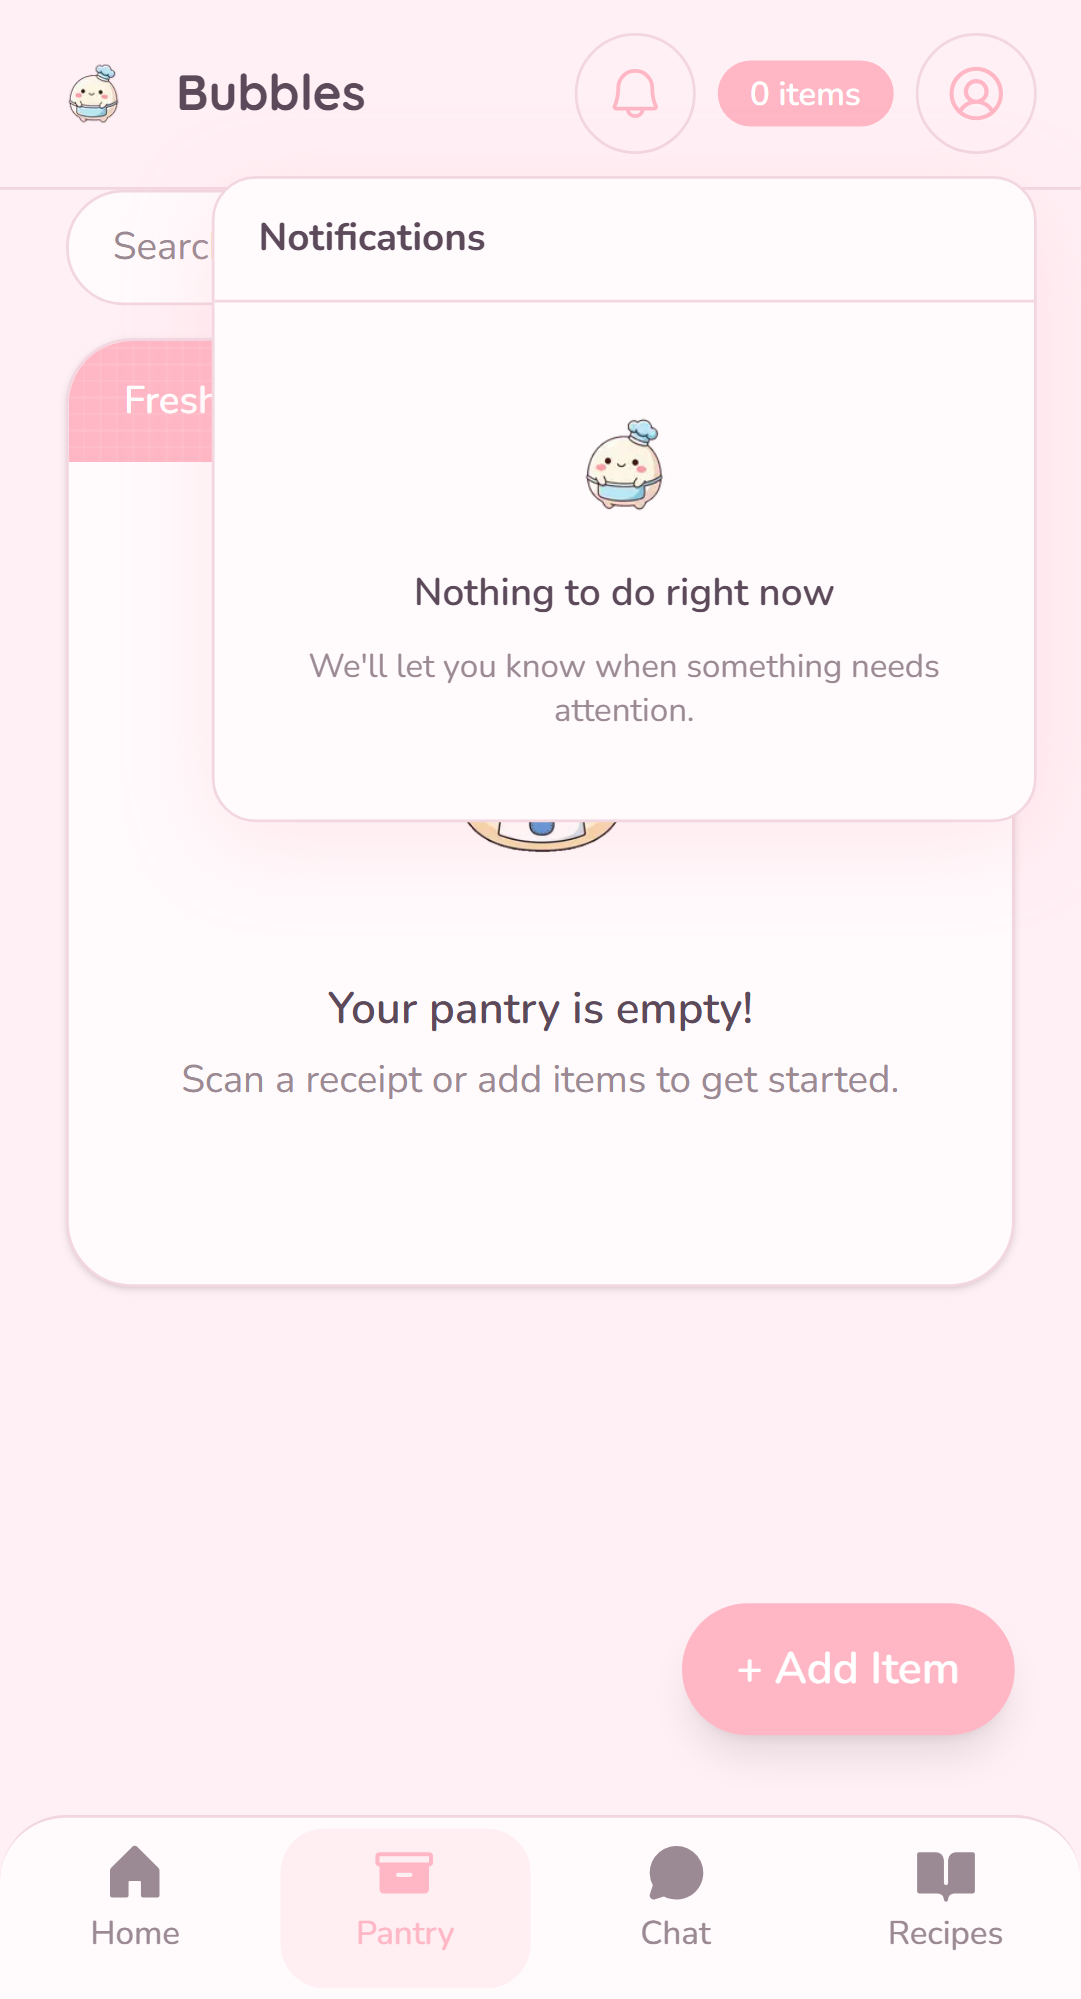
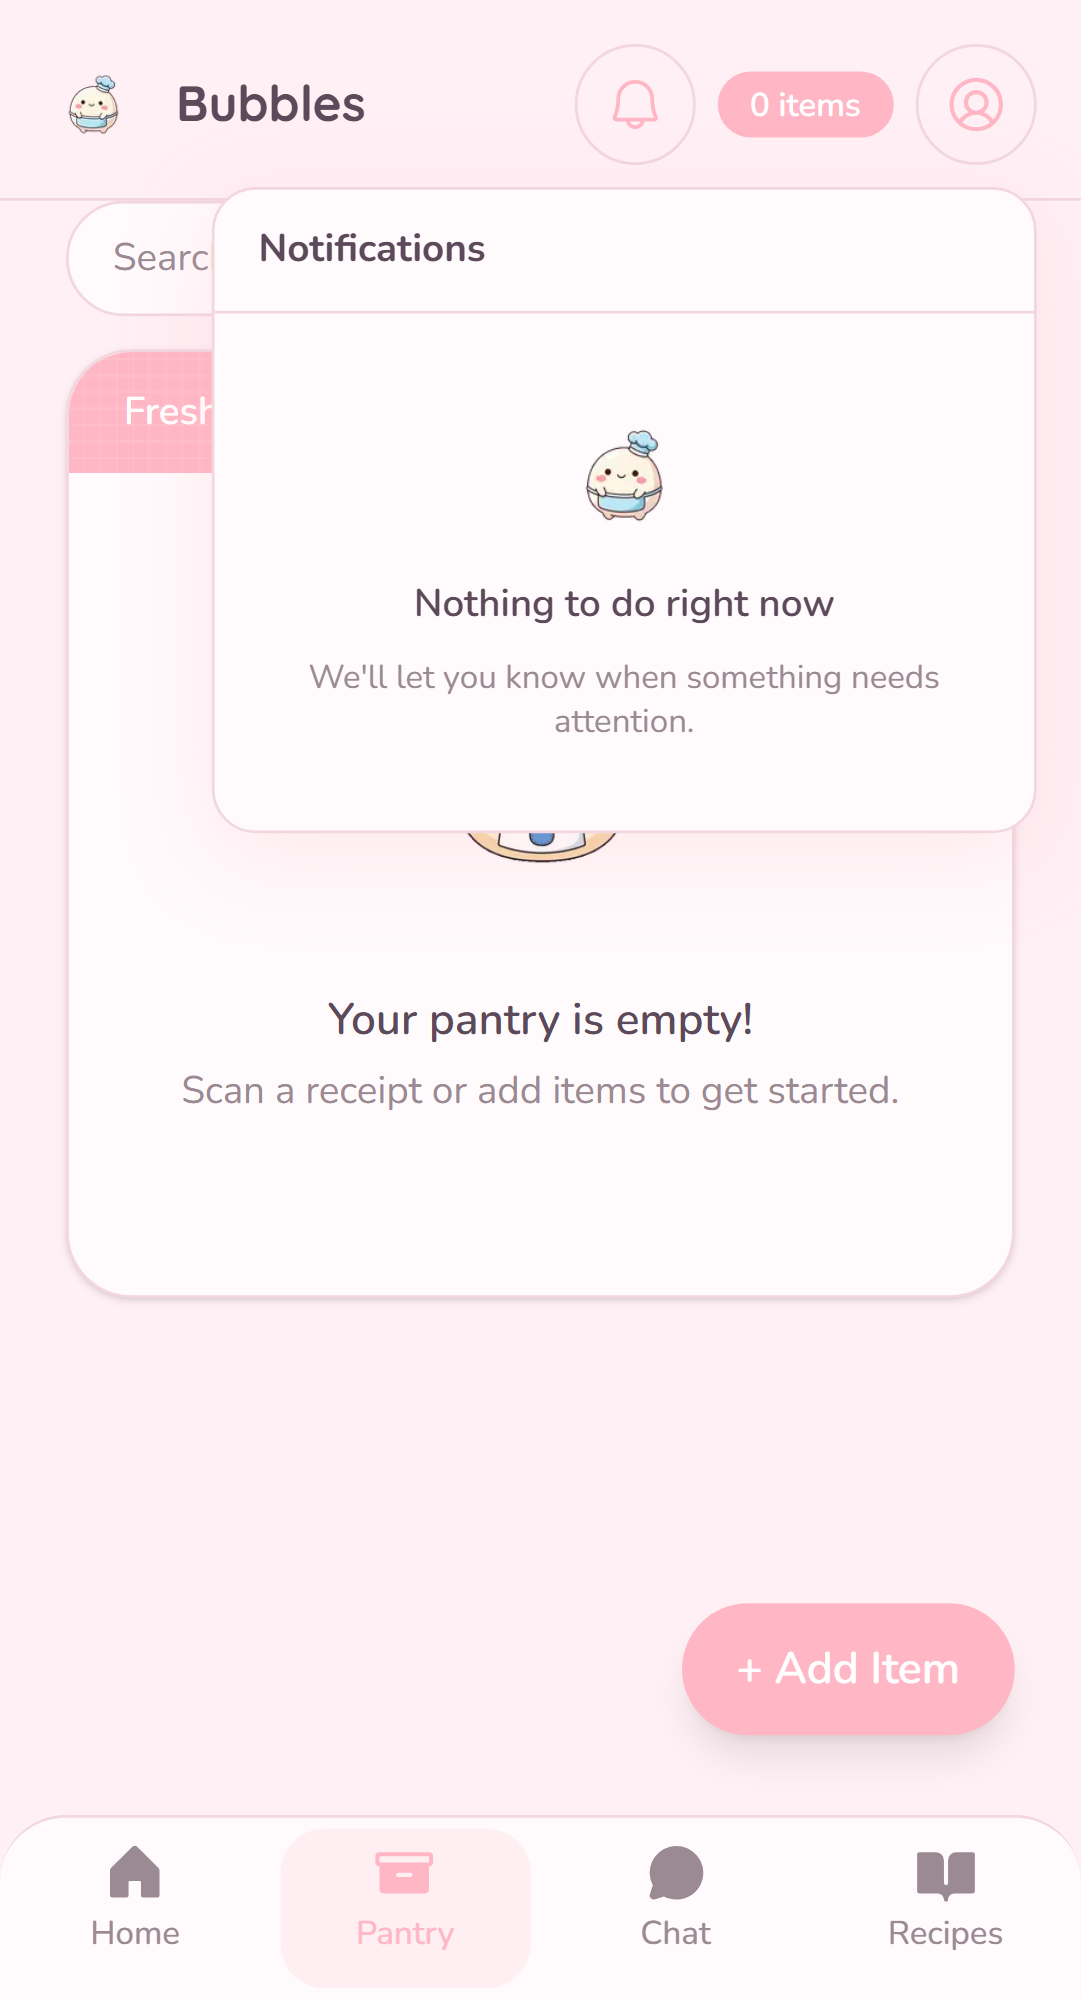
fix(notifications): address code-review findings on #496
- Move useInboxEntries to React Query (useQuery) instead of hand-rolled
  useState/useEffect fetch orchestration — CLAUDE.md requires React Query
  for server state.
- Gate the cook nudge on having at least one saved recipe. "No cooks"
  (the issue's own phrasing) means no saved recipe has been cooked, not
  "zero recipes at all" — without the gate, a brand-new account with an
  empty pantry and no recipes got a badge, contradicting the acceptance
  criterion that an empty pantry with no timers shows no badge.
- Drop "unread" from the bell's aria-label; this inbox has no persisted
  read/unread state to describe.
- Add the it.skip test with a reason for the B.3 timer-store case the
  issue's acceptance criteria explicitly ask for, plus a regression test
  locking in the zero-recipes cook-nudge fix.
- Refresh screenshots against a rebuilt stack to confirm the fixes render
  correctly, including the genuinely-empty dropdown with zero recipes.

diff --git a/nextjs/src/hooks/useInboxEntries.ts b/nextjs/src/hooks/useInboxEntries.ts
@@ -3,24 +3,39 @@
 /**
  * Fetch-and-derive hook for the notification center (#496, Spec B.4).
  *
- * Thin wrapper around `deriveInboxEntries` (`lib/inbox-helpers.ts`, the
- * actually-tested pure logic): fetches the live feeds on mount/open and
- * hands the result to the pure derivation. No persistence, no polling — the
- * issue's "compute-on-load" decision means this only refetches when the
- * caller re-triggers it (the bell re-runs it each time the dropdown opens).
+ * Thin `useQuery` wrapper around `deriveInboxEntries` (`lib/inbox-helpers.ts`,
+ * the actually-tested pure logic) — server state goes through React Query
+ * per CLAUDE.md's "React Query for server state only" rule, same convention
+ * as `useDecorations`/`useBubbles` (`lib/api/kitchen.ts`, `lib/api/bubbles.ts`).
+ * "Compute-on-load" (the issue's explicit decision) means no persistence
+ * layer of its own — the cache here is ordinary React Query staleness, not
+ * a stored inbox, and `refresh()` (called when the bell opens) just asks
+ * React Query to refetch.
  *
  * Timers (Spec B.3) and the grocery pointer (Spec B.5) aren't wired to a
- * real source yet — neither has shipped. Both are left `undefined`, which
- * `deriveInboxEntries` treats as "feature absent" rather than "empty", so
- * this hook needs no changes when either lands: whoever wires B.3/B.5 swaps
- * `timers`/`groceryCount` for a real fetch here.
+ * real source yet — neither has shipped. Both are left `undefined` in the
+ * derivation input, which `deriveInboxEntries` treats as "feature absent"
+ * rather than "empty", so this hook needs no changes when either lands:
+ * whoever wires B.3/B.5 adds `timers`/`groceryCount` to `fetchInboxSources`
+ * below.
  */
-import { useCallback, useEffect, useState } from 'react'
+import { useQuery } from '@tanstack/react-query'
 import { fetchPantryItems } from '@/lib/api/pantry'
 import { fetchRecipeCookMeta } from '@/lib/api/recipes'
 import { deriveInboxEntries, type InboxDerivation } from '@/lib/inbox-helpers'
 
 const EMPTY: InboxDerivation = { entries: [], totalCount: 0, overflowCount: 0 }
+
+/**
+ * Both feed fetches already degrade to `[]` on their own failure (see their
+ * docstrings in `lib/api/pantry.ts`/`lib/api/recipes.ts`), so this never
+ * rejects — a broken fetch just derives an empty inbox rather than putting
+ * the query into an error state.
+ */
+async function fetchInboxDerivation(): Promise<InboxDerivation> {
+  const [pantryItems, recipes] = await Promise.all([fetchPantryItems(), fetchRecipeCookMeta()])
+  return deriveInboxEntries({ pantryItems, recipes })
+}
 
 export interface UseInboxEntriesResult extends InboxDerivation {
   loading: boolean
@@ -29,40 +44,16 @@ export interface UseInboxEntriesResult extends InboxDerivation {
 }
 
 export function useInboxEntries(): UseInboxEntriesResult {
-  const [state, setState] = useState<InboxDerivation>(EMPTY)
-  const [loading, setLoading] = useState(true)
+  const { data, isLoading, refetch } = useQuery({
+    queryKey: ['inbox-entries'],
+    queryFn: fetchInboxDerivation,
+  })
 
-  const refresh = useCallback(() => {
-    let cancelled = false
-    setLoading(true)
-
-    void (async () => {
-      try {
-        const [pantryItems, recipes] = await Promise.all([
-          fetchPantryItems(),
-          fetchRecipeCookMeta(),
-        ])
-        if (cancelled) return
-        setState(deriveInboxEntries({ pantryItems, recipes }))
-      } catch {
-        // Both fetches already degrade to [] internally; this catch is a
-        // last-resort net so a broken bell never throws in the header.
-        if (!cancelled) setState(EMPTY)
-      } finally {
-        if (!cancelled) setLoading(false)
-      }
-    })()
-
-    return () => {
-      cancelled = true
-    }
-  }, [])
-
-  useEffect(() => {
-    const cancel = refresh()
-    return cancel
-    // eslint-disable-next-line react-hooks/exhaustive-deps
-  }, [])
-
-  return { ...state, loading, refresh }
+  return {
+    ...(data ?? EMPTY),
+    loading: isLoading,
+    refresh: () => {
+      void refetch()
+    },
+  }
 }

diff --git a/nextjs/src/__tests__/inbox-helpers.test.ts b/nextjs/src/__tests__/inbox-helpers.test.ts
@@ -62,16 +62,27 @@ describe('deriveInboxEntries', () => {
     })
 
     const result = deriveInboxEntries(
-      { pantryItems: [expiringTomorrow, expired], recipes: [] },
+      { pantryItems: [expiringTomorrow, expired], recipes: [{ last_cooked_at: NOW.toISOString() }] },
       NOW,
     )
 
-    // Cook nudge also fires here (no recipes), so 3 total: expired,
-    // expiring, then the nudge — expired must lead.
+    expect(result.entries).toHaveLength(2)
     expect(result.entries[0].kind).toBe('expired')
     expect(result.entries[0].id).toBe('expired:expired-1')
     expect(result.entries[1].kind).toBe('expiring')
     expect(result.entries[1].id).toBe('expiring:expiring-1')
+  })
+
+  it('never fires the cook nudge for an account with zero saved recipes (AC: empty pantry -> no badge)', () => {
+    // "No cooks" (the issue's own phrasing) means no *saved* recipe has ever
+    // been cooked — not "this account owns zero recipes". A brand-new
+    // account with nothing saved yet has nothing to suggest cooking from,
+    // so the nudge must stay silent here, or the "empty pantry, no timers
+    // -> bell shows no badge" acceptance criterion would never actually
+    // hold for a fresh account.
+    const result = deriveInboxEntries({ pantryItems: [], recipes: [] }, NOW)
+    expect(result.entries).toEqual([])
+    expect(result.totalCount).toBe(0)
   })
 
   it('orders expiring entries by days remaining, soonest first', () => {
@@ -166,6 +177,17 @@ describe('deriveInboxEntries', () => {
     expect(result.entries).toHaveLength(1)
     expect(result.entries[0].kind).toBe('timer')
     expect(result.entries[0].href).toBeNull()
+  })
+
+  // #496's acceptance criteria ask, verbatim: "With Spec B.3 merged, a
+  // completed timer appears as an entry until dismissed. (If B.3 is not
+  // merged yet, the hook's timer source is a no-op and the test for it is
+  // skipped with a reason.)" B.3 hasn't merged — there is no real timer
+  // store to drive `useInboxEntries`' `timers` input end to end, only the
+  // synthetic feed the test above exercises against the pure derivation.
+  // Skipped per that explicit instruction, not left out.
+  it.skip('shows a completed timer surfaced by the real Spec B.3 store (skipped: Spec B.3 is not merged — no timer store exists yet to drive this end to end)', () => {
+    // Intentionally empty — see skip reason above.
   })
 
   it('includes a grocery pointer when the B.5 count is present and positive', () => {

diff --git a/nextjs/src/__tests__/notification-bell.test.tsx b/nextjs/src/__tests__/notification-bell.test.tsx
@@ -5,10 +5,23 @@
  */
 import React from 'react'
 import { render, screen, waitFor, fireEvent } from '@testing-library/react'
+import { QueryClient, QueryClientProvider } from '@tanstack/react-query'
 import NotificationBell from '@/components/layout/NotificationBell'
 
 function jsonResponse(body: unknown): Response {
   return { ok: true, json: async () => body } as Response
+}
+
+// useInboxEntries fetches through React Query (#496 standards fix — server
+// state goes through React Query, not hand-rolled useState/useEffect), so
+// every render needs a provider, same as HeroHome's tests.
+function renderBell() {
+  const client = new QueryClient({ defaultOptions: { queries: { retry: false } } })
+  return render(
+    <QueryClientProvider client={client}>
+      <NotificationBell />
+    </QueryClientProvider>,
+  )
 }
 
 const originalFetch = global.fetch
@@ -27,7 +40,7 @@ describe('NotificationBell', () => {
       return jsonResponse({})
     }) as unknown as typeof fetch
 
-    render(<NotificationBell />)
+    renderBell()
 
     await waitFor(() => {
       expect(screen.queryByTestId('notification-badge')).not.toBeInTheDocument()
@@ -75,7 +88,7 @@ describe('NotificationBell', () => {
       return jsonResponse({})
     }) as unknown as typeof fetch
 
-    render(<NotificationBell />)
+    renderBell()
 
     await waitFor(() => {
       expect(screen.getByTestId('notification-badge')).toHaveTextContent('2')

diff --git a/nextjs/src/lib/inbox-helpers.ts b/nextjs/src/lib/inbox-helpers.ts
@@ -218,10 +218,19 @@ export function deriveInboxEntries(data: InboxSourceData, now: Date = new Date()
     all.push(timerEntry(timer))
   }
 
-  const latest = latestCookedAt(data.recipes)
-  const daysSinceCook = latest ? Math.floor((today.getTime() - latest.getTime()) / 86_400_000) : null
-  if (daysSinceCook === null || daysSinceCook > COOK_NUDGE_DAYS) {
-    all.push(cookNudgeEntry())
+  // Gated on having at least one saved recipe: "no cooks" (the issue's own
+  // phrasing) means no *saved* recipe has been cooked, not "this account has
+  // zero recipes at all". Without this gate, a brand-new account with an
+  // empty pantry and no recipes would still get a badge — contradicting the
+  // acceptance criterion "Empty pantry, no timers -> bell shows no badge
+  // ... (never an empty box)", since there'd be nothing to suggest cooking
+  // *from* yet.
+  if (data.recipes.length > 0) {
+    const latest = latestCookedAt(data.recipes)
+    const daysSinceCook = latest ? Math.floor((today.getTime() - latest.getTime()) / 86_400_000) : null
+    if (daysSinceCook === null || daysSinceCook > COOK_NUDGE_DAYS) {
+      all.push(cookNudgeEntry())
+    }
   }
 
   if (data.groceryCount != null && data.groceryCount > 0) {

diff --git a/nextjs/src/components/layout/NotificationBell.tsx b/nextjs/src/components/layout/NotificationBell.tsx
@@ -86,7 +86,9 @@ export default function NotificationBell() {
         ref={buttonRef}
         type="button"
         onClick={toggleOpen}
-        aria-label={count > 0 ? `Notifications, ${count} unread` : 'Notifications'}
+        // "unread" would imply persisted read state, which this lite inbox
+        // deliberately doesn't have (#496: "No persistence, no read/unread").
+        aria-label={count > 0 ? `Notifications, ${count} item${count === 1 ? '' : 's'}` : 'Notifications'}
         aria-haspopup="true"
         aria-expanded={open}
         data-testid="notification-bell"
